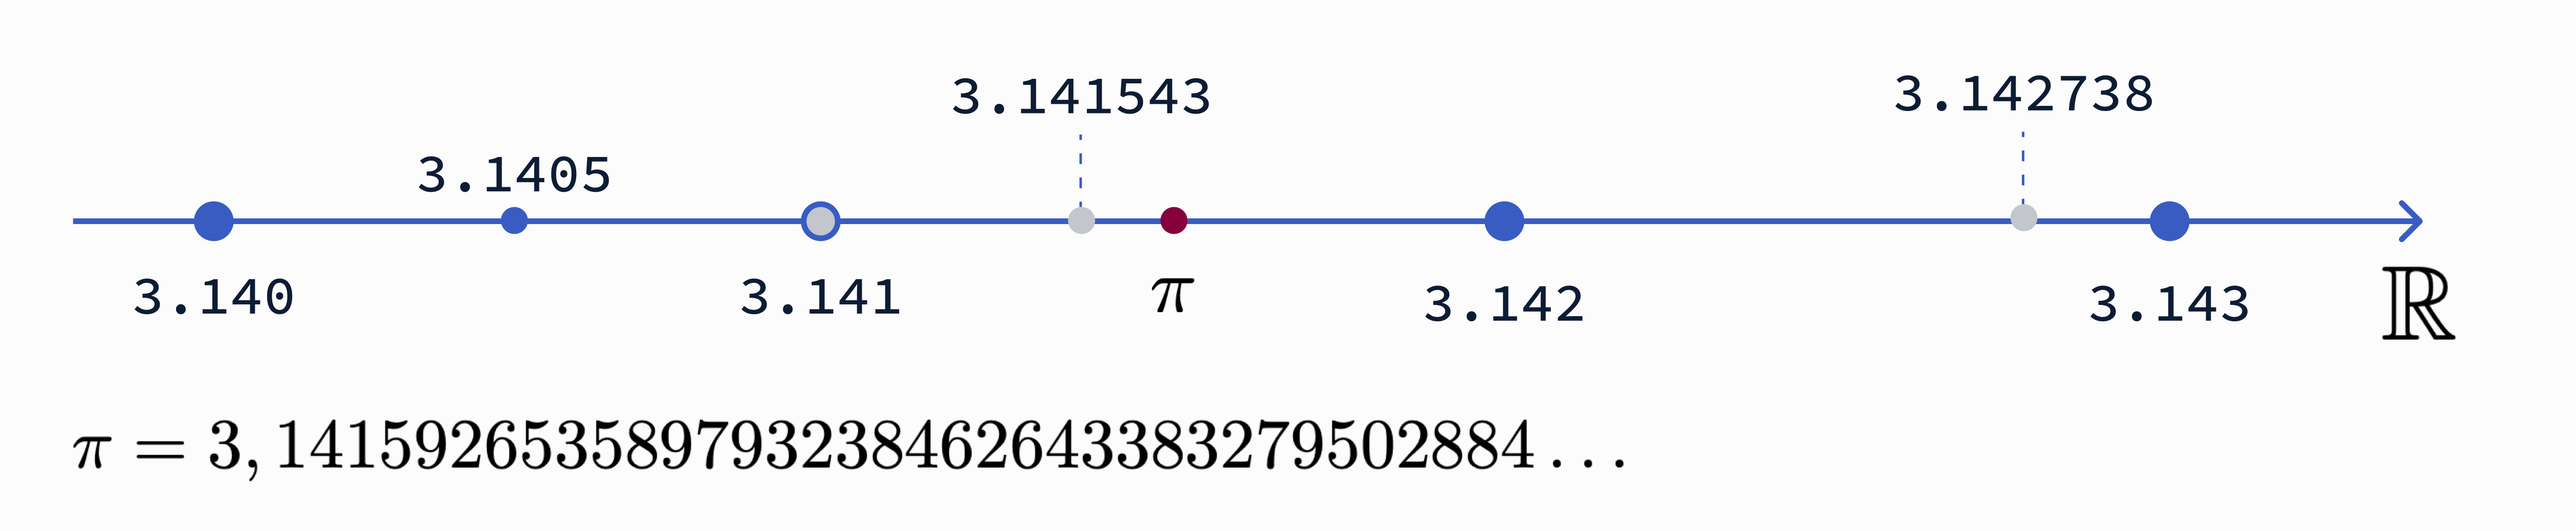
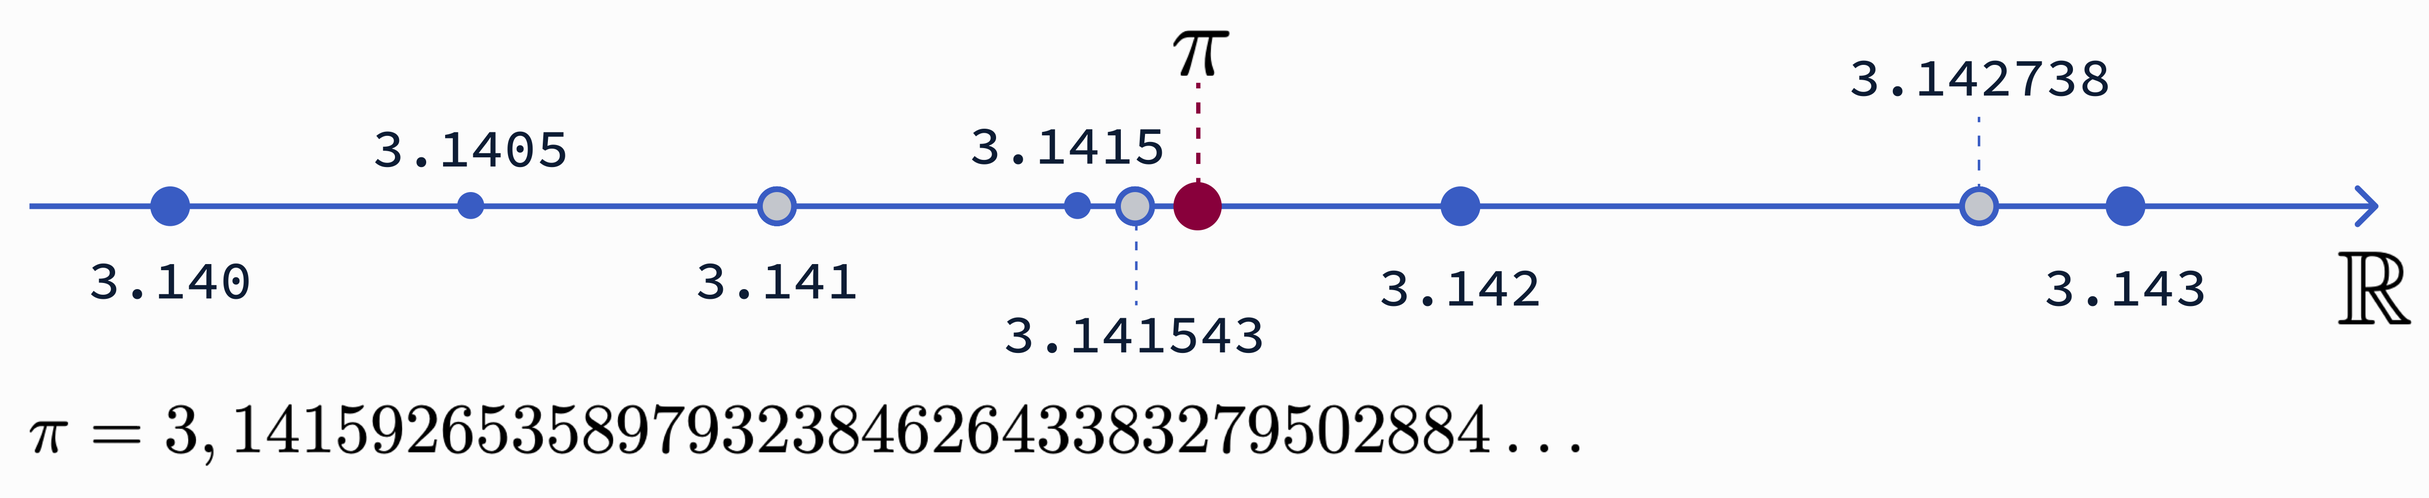
[nvfp4] fixed typos and other small things in the todo.md #8

diff --git a/b300-nvfp4-series/00-intro.md b/b300-nvfp4-series/00-intro.md
@@ -113,7 +113,7 @@ The gap between adjacent representable values is approximately 0.002—this is t
 
 ### bfloat16
 
-FP32, FP16, and FP64 are defined in the IEEE 754 standard and were standard for floating point arithmetic in deep learning for many years—until 2017 when Google Brain introduced `bfloat16`. This format, championed by Google engineers for TPUs, kept the dynamic range of FP32 by using the same number of exponent bits but shortened the mantissa: `E5M10 -> E8M7`. This is a clever way to get the best of both worlds: faster training with enough range to handle large values that might otherwise cause numerical instabilities.
+FP32, FP16, and FP64 are defined in the IEEE 754 standard and were standard for floating point arithmetic in deep learning for many years, until 2017 when Google Brain introduced `bfloat16`. This format, championed by Google engineers for TPUs, kept the dynamic range of FP32 by matching its 8 exponent bits, while using only 7 mantissa bits (compared to FP16's 10). The result is `E8M7`, a format that trades precision for range. This is a clever way to get the best of both worlds: faster training with enough range to handle large values that might otherwise cause numerical instabilities.
 
 <p align="center">
   <img src="figures/bfloat16.png" alt="bfloat16 format" width="400"/>
@@ -139,7 +139,7 @@ Note that while bfloat16 results in the same representable value as FP16 for thi
 
 ### FP8
 
-As model sizes and training throughput demands continued to grow, bfloat16 became a limiting factor due to memory bandwidth and compute density constraints. This motivated the transition toward FP8.
+As model sizes and training throughput demands continued to grow, bfloat16 became a limiting factor due to memory bandwidth and compute density constraints. This motivated the transition toward FP8. FP8 training, formalized by [Micikevicius et al.](https://arxiv.org/abs/2209.05433), became feasible at scale with the introduction of FP8 tensor cores in NVIDIA's Hopper (H100) architecture.
 
 FP8 reduces the representation to 8 bits, typically implemented in two complementary formats: `E4M3` (prioritizing precision) and `E5M2` (prioritizing dynamic range). On modern GPUs, FP8 is tightly integrated with Tensor Cores, enabling significantly higher arithmetic throughput compared to FP16 or BF16. By halving the data size again, FP8 allows more operands to be processed per cycle, increasing arithmetic intensity and reducing memory traffic—two critical factors for scaling large-model training.
 
@@ -154,8 +154,8 @@ Moving to FP8 requires sophisticated orchestration of different numerical format
 
 DeepSeek adopts different FP8 variants depending on the operation:
 
-- **Weights (FWD/BWD):** FP8 `E4M3`, since weights require finer precision—the extra mantissa bit enables more accurate computations.
-- **Activations (FWD):** FP8 `E5M2`, since activations often contain outliers that push the boundaries of dynamic range—the extra exponent bit prevents destabilizing overflows.
+- **Weights (forward/backward pass):** FP8 `E4M3`, since weights require finer precision; the extra mantissa bit enables more accurate computations.
+- **Activations (forward pass):** FP8 `E5M2`, since activations often contain outliers that push the boundaries of dynamic range; the extra exponent bit prevents destabilizing overflows.
 - **Master Weights and Optimizer States:** Kept in higher precision (FP32 and FP16) to ensure accurate gradient accumulation and stable convergence.
 
 Furthermore, to handle outliers that even `E5M2` can't accommodate, DeepSeek employs fine-grained quantization, scaling blocks of FP8 elements rather than whole tensors. This software-heavy approach to managing numerical instability highlights the challenges of scaling low-precision training.
@@ -174,13 +174,13 @@ The core idea is moving from per-tensor to per-block scaling. Instead of assigni
 2. **Shared per-block scale:** The hardware finds the maximum absolute value in each block to determine a shared 8-bit exponent.
 3. **Local quantization:** Individual elements are quantized to 4 bits relative to their block's scale.
 
-**A simple example:** Consider a block of 4 values: `[0.001, 0.002, 100.0, 0.003]`. With per-tensor scaling, the scale would be dominated by `100.0`, and the small values would all round to zero. With per-block scaling, if this block gets its own scale, the outlier only affects these 4 neighbors—the rest of the tensor remains well-quantized.
+**A simple example (real blocks use 32 elements):** Consider a block of 4 values: `[0.001, 0.002, 100.0, 0.003]`. With per-tensor scaling, the scale would be dominated by `100.0`, and the small values would all round to zero. With per-block scaling, if this block gets its own scale, the outlier only affects these 4 neighbors; the rest of the tensor remains well-quantized.
 
 This compartmentalization of numerical noise is the key breakthrough enabling training at 4-bit precision.
 
 ### NVFP4
 
-The NVFP4 format, introduced with NVIDIA's Blackwell architecture, represents the most aggressive step yet in low-bit representation.
+Building on the MX foundation, NVIDIA developed NVFP4 for their Blackwell architecture, adding hardware-specific refinements to push the limits of low-bit training.
 
 NVFP4 is a 4-bit floating point format (`E2M1`):
 - Sign: 1 bit
@@ -192,13 +192,13 @@ With only **16 unique values** available in a 4-bit representation, careful scal
 While the OCP MX specification suggests 32-element blocks, NVIDIA chose finer granularity: **16-element blocks**. By calculating the shared scale factor over fewer elements, NVFP4 confines outliers more tightly—a single spike distorts a smaller neighborhood, preserving fidelity in surrounding weights.
 
 ![](figures/nvfp4.png)
-**Figure 5.** *Illustration of the compute flow for an NVFP4 quantized linear layer. All GEMM operations quantize their inputs to NVFP4. (Source: [Pretraining Large Language Models with NVFP4](https://arxiv.org/abs/2509.25149))*
+**Figure 5.** *A 16×32 matrix stored in NVFP4 format. Each block contains 16 contiguous FP4 elements (gray and green) with a shared FP8 scale factor (yellow). The largest magnitude element in each block (green) is scaled to the FP4 maximum representable value. A per tensor FP32 scale factor is also applied (not shown). (Source: [Pretraining Large Language Models with NVFP4](https://arxiv.org/abs/2509.25149))*
 
 Hardware support is only half the story. Training a model in 4-bit precision without diverging into noise requires specific algorithmic interventions, as detailed in NVIDIA's paper ["Pretraining Large Language Models with NVFP4"](https://arxiv.org/abs/2509.25149).
 
 **1. 2D Block Scaling**
 
-Scaling is applied along both **row-wise** and **column-wise** dimensions for matrix multiplication. This maximizes effective dynamic range, allowing the tiny 4-bit payload to represent values that would otherwise overflow or underflow.
+Scaling is applied along both **row-wise** and **column-wise** dimensions for weight matrices (16×16 blocks). Why both? During forward pass, scaling happens along rows; during backward pass, tensors are transposed, so scaling happens along columns. Without 2D scaling, the same weight would have two different quantized representations, breaking the chain rule and degrading training quality.
 
 **2. Random Hadamard Transform (RHT)**
 
@@ -228,10 +228,10 @@ $$
 
 where $p = \frac{x - \lfloor x \rfloor}{\lceil x \rceil - \lfloor x \rfloor}$
 
-This ensures that **on average**, the expected value of the rounded number equals the original—allowing gradient descent to converge correctly over time despite the severe quantization.
+This ensures that **on average**, the expected value of the rounded number equals the original. Over many operations, rounding errors cancel out rather than accumulate in one direction, allowing gradient descent to converge correctly despite the severe quantization.
 
 ![](figures/nvfp4_training.png)
-**Figure 6.** *Illustration of the NVFP4 training flow for a linear layer. All GEMMs are performed using NVFP4. (Source: [Pretraining Large Language Models with NVFP4](https://arxiv.org/abs/2509.25149))*
+**Figure 6.** *Illustration of the compute flow for an NVFP4 quantized linear layer. All GEMM operations quantize their inputs to NVFP4. (Source: [Pretraining Large Language Models with NVFP4](https://arxiv.org/abs/2509.25149))*
 
 ---
 
@@ -259,4 +259,12 @@ This ensures that **on average**, the expected value of the rounded number equal
 
 The journey from 32-bit to 4-bit precision highlights a fundamental shift in AI scaling. We are no longer just relying on transistor density (Moore's Law) to make models faster; we are fundamentally changing how these models represent numbers.
 
-NVFP4 proves that with the right algorithmic safety nets—stochastic rounding, Hadamard transforms, fine-grained block scaling—we can strip away precision without sacrificing model quality. As models continue to grow, this tight co-design between hardware constraints and algorithmic innovation will define the next generation of AI infrastructure.
+NVFP4 proves that with the right algorithmic safety nets (stochastic rounding, Hadamard transforms, fine-grained block scaling) we can strip away precision without sacrificing model quality. Early benchmarks on NVIDIA Blackwell demonstrate the payoff: **3x faster training** compared to Hopper on equivalent GPU counts, **4 to 6x speed gains** over BF16 operations, and **approximately 1.8x memory reduction** versus FP8, all while maintaining validation loss within 1 to 1.5% of FP8 baselines.
+
+**When to use which format:**
+* **FP32/FP16**: Master weights, optimizer states, and accumulation; use anywhere numerical stability is paramount.
+* **BF16**: Default choice for training weights and gradients when you need FP32's dynamic range but can tolerate lower precision.
+* **FP8**: Production training on Hopper/Ada hardware; use `E4M3` for weights and `E5M2` for activations.
+* **NVFP4**: Blackwell native training when maximum throughput matters; requires algorithmic support (RHT, SR, 2D scaling).
+
+As models continue to grow, this tight co-design between hardware constraints and algorithmic innovation will define the next generation of AI infrastructure. The trend is clear: future formats will push precision even lower, demanding ever more sophisticated software techniques to maintain convergence.

diff --git a/b300-nvfp4-series/todo.md b/b300-nvfp4-series/todo.md
@@ -5,3 +5,27 @@
 * [ ] Look for more details on the Random Hadamard Transform (so far I didn't put much emphasis on that)
 * [ ] Add some detail/plot on the Stochastic Rounding
 * [ ] Ask if we can reuse the figures from NVIDIA or we need to redo them
+
+---
+
+### Suggested Edits for `00-intro.md` (Claude Review)
+
+#### Content Fixes
+- [x] **Figure `fp_00.png`**: Fix mismatch with text — change `3.1405` to `3.141` in the figure (text correctly uses 3 fractional digits)
+- [x] **Line 116**: Clarify BF16 transition, reword `E5M10 -> E8M7` to explicitly state "reduced mantissa from 10 to 7 bits while expanding exponent from 5 to 8"
+- [x] **Lines 195-197**: Verify ArXiv link, ID `2509.25149` is valid (paper published September 2025)
+
+#### Missing Context
+- [x] **Line ~142 (FP8 section)**: Add hardware context — mention FP8 was introduced with NVIDIA Hopper (H100) architecture
+- [x] **Line 157-158**: Expand acronyms, change "Weights (FWD/BWD)" to "Weights (forward/backward pass)" for clarity
+- [x] **Line 177 (MX example)**: Add clarification, note that the 4-element block is a "simplified example; real blocks use 32 elements"
+
+#### Flow & Clarity
+- [x] **Line 181 (MX → NVFP4 transition)**: Add bridging sentence, explicitly state NVFP4 builds on MX concepts with NVIDIA-specific refinements
+- [x] **Lines 199-201 (2D Block Scaling)**: Explain the "why", updated with chain rule explanation from paper
+- [x] **Lines 213-229 (Stochastic Rounding)**: Add intuition, include: "Over many operations, errors cancel out rather than accumulate in one direction"
+
+#### Structural Suggestions
+- [x] **Audience consistency**: Review for consistent technical depth — either add brief explanations for ML terms (gradient descent, activations) or assume expert audience throughout
+- [x] **Figures 5 & 6**: Differentiate captions more clearly — one shows compute flow, one shows training flow
+- [x] **Conclusion (lines 258-261)**: Strengthen with concrete performance numbers, future directions beyond NVFP4, or guidance on when to use which format
